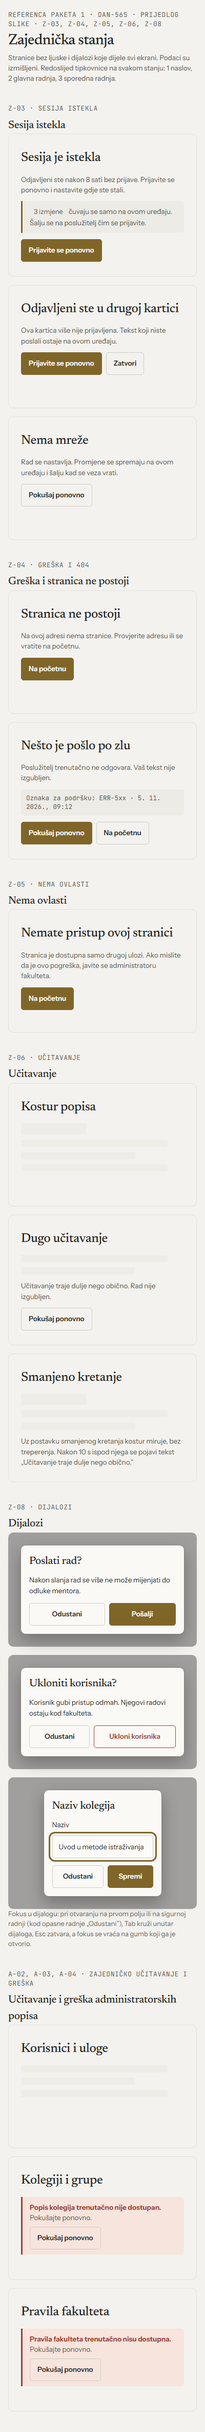
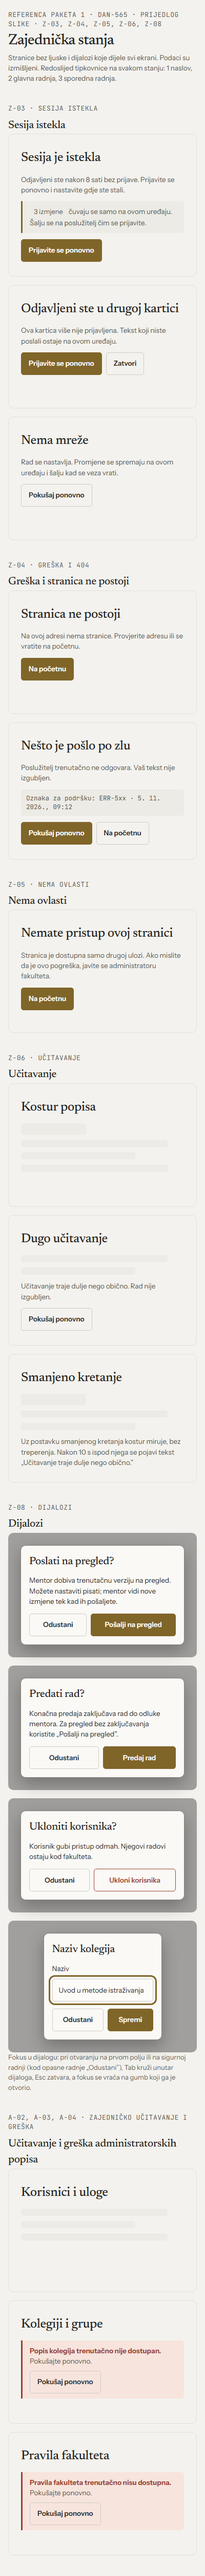
docs: split submit-for-review and final submission dialogs (DAN-565)
Claude-Session: https://claude.ai/code/session_01N1HowT4JEmWPus261RPqtk

diff --git a/docs/design/ductura/zajednicko-reference/zajednicka-stanja.html b/docs/design/ductura/zajednicko-reference/zajednicka-stanja.html
@@ -94,9 +94,14 @@
   <h2 id="z08">Dijalozi</h2>
   <div class="grid">
     <div class="scrim"><div class="dialog" role="dialog" aria-modal="true" aria-labelledby="d1">
-      <h3 id="d1">Poslati rad?</h3>
-      <p>Nakon slanja rad se više ne može mijenjati do odluke mentora.</p>
-      <div class="buttons"><button class="btn secondary" type="button">Odustani</button><button class="btn" type="button">Pošalji</button></div>
+      <h3 id="d1">Poslati na pregled?</h3>
+      <p>Mentor dobiva trenutačnu verziju na pregled. Možete nastaviti pisati; mentor vidi nove izmjene tek kad ih pošaljete.</p>
+      <div class="buttons"><button class="btn secondary" type="button">Odustani</button><button class="btn" type="button">Pošalji na pregled</button></div>
+    </div></div>
+    <div class="scrim"><div class="dialog" role="alertdialog" aria-modal="true" aria-labelledby="d0" aria-describedby="d0p">
+      <h3 id="d0">Predati rad?</h3>
+      <p id="d0p">Konačna predaja zaključava rad do odluke mentora. Za pregled bez zaključavanja koristite &bdquo;Pošalji na pregled&rdquo;.</p>
+      <div class="buttons"><button class="btn secondary" type="button">Odustani</button><button class="btn" type="button">Predaj rad</button></div>
     </div></div>
     <div class="scrim"><div class="dialog" role="alertdialog" aria-modal="true" aria-labelledby="d2" aria-describedby="d2p">
       <h3 id="d2">Ukloniti korisnika?</h3>

diff --git a/docs/design/ductura/zajednicko-reference/README.md b/docs/design/ductura/zajednicko-reference/README.md
@@ -19,7 +19,7 @@ Prijedlog slike, bez produktnog koda. Spajanje ove mape vlasnikovom porukom „S
 | Z-04 | stranica ne postoji, greška poslužitelja s oznakom za podršku |
 | Z-05 | nema ovlasti |
 | Z-06 | kostur popisa, dugo učitavanje, smanjeno kretanje (kostur miruje) |
-| Z-08 | potvrda, opasna radnja, dijalog s poljem (fokus u dijalogu) |
+| Z-08 | slanje na pregled (nastavak pisanja dopušten), konačna predaja (zaključava rad), opasna radnja, dijalog s poljem (fokus u dijalogu) |
 | A-02, A-03, A-04 | učitavanje (A-02), greška (A-03, A-04); ostala stanja ostaju u m2-reference |
 | Fokus | prsten 3 px / razmak 4 px, preskok na sadržaj, fokus nije zaklonjen (WCAG 2.2, 2.4.11), redoslijed tipkovnice 1 do 5 |
 
